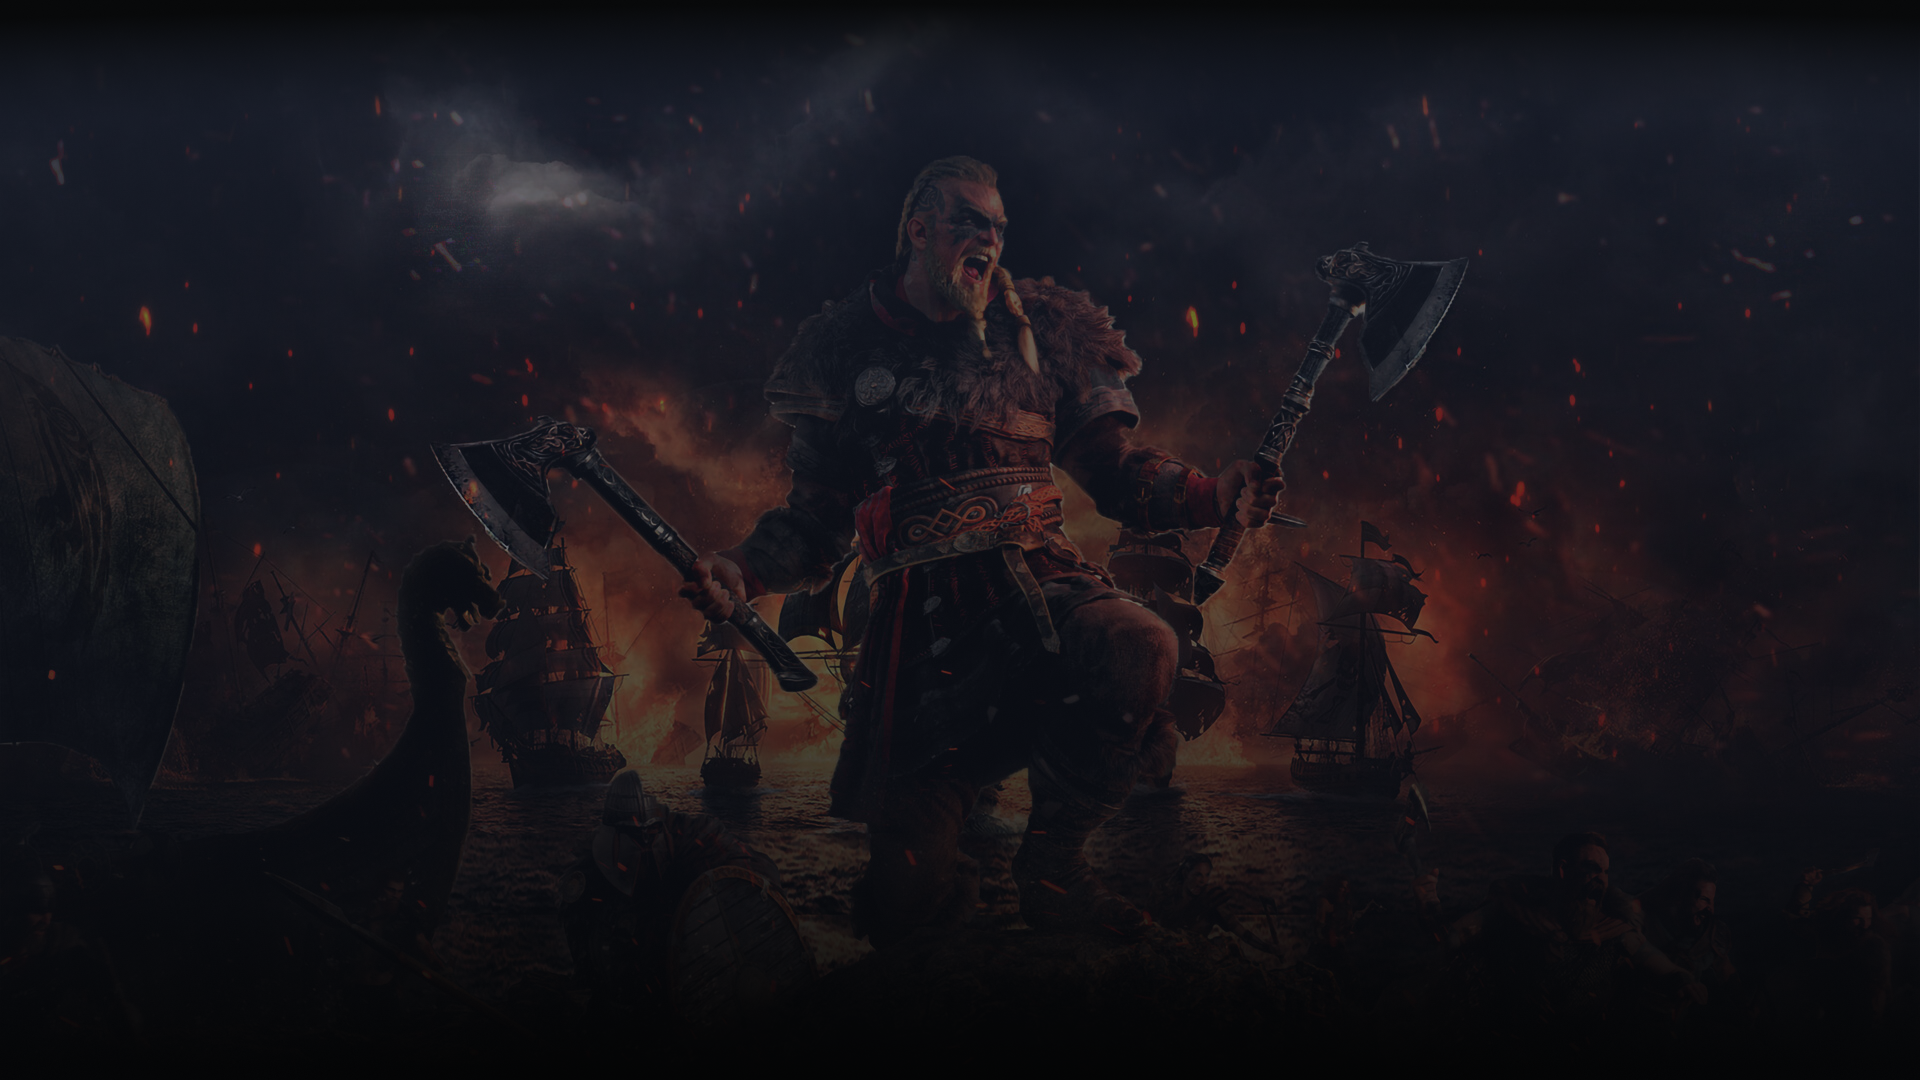
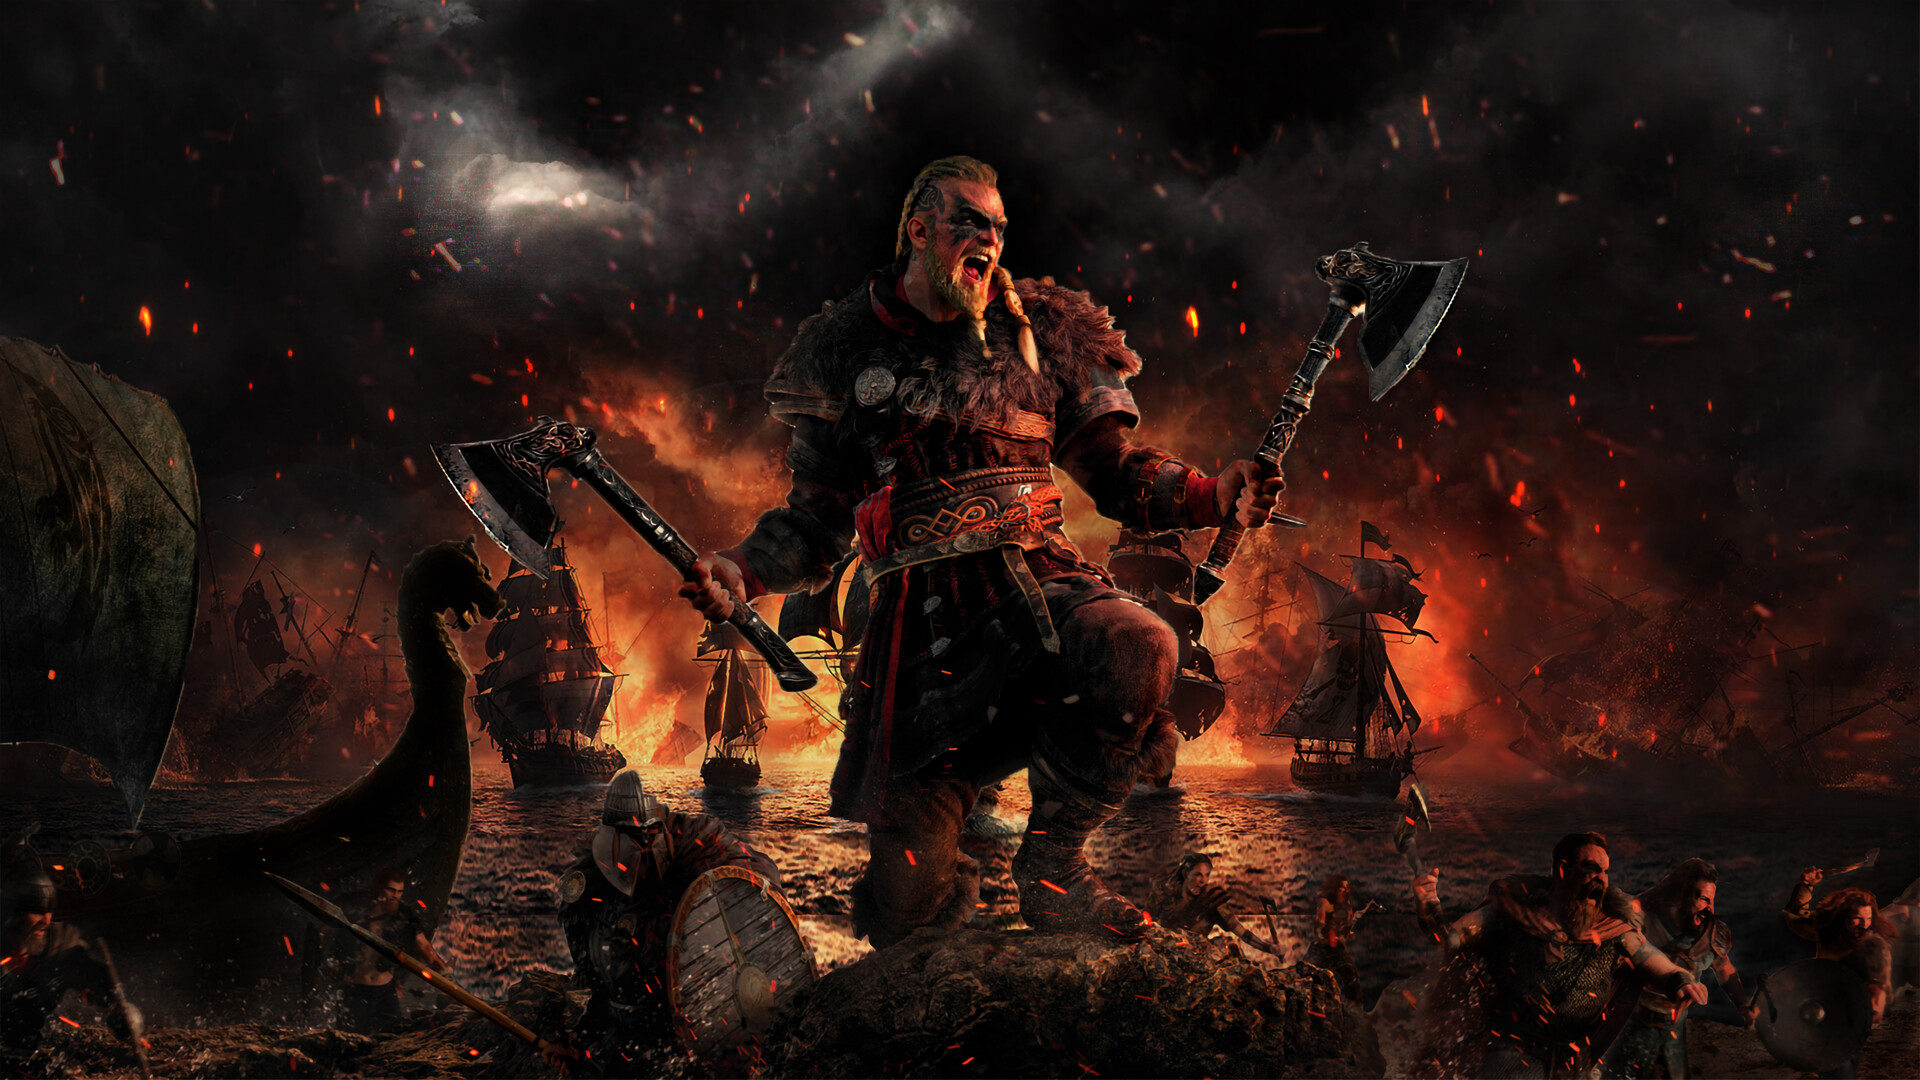
feat: game features

diff --git a/src/app/features/game-features/pages/game-features/game-features.scss b/src/app/features/game-features/pages/game-features/game-features.scss
@@ -1,0 +1,96 @@
+.container {
+  background-image: url("i../../../../../../../../public/images/game-features-background.png");
+  background-repeat: no-repeat;
+  background-size: cover;
+  padding: 20px 120px;
+  width: 100%;
+  max-width: 100vw;
+  height: 100%;
+  min-height: 100vh;
+  box-shadow: inset 0 0 2000px 300px #000;
+  display: flex;
+  flex-direction: row-reverse;
+  align-items: center;
+  color: white;
+}
+
+.line {
+  width: 1px;
+  background-color: white;
+}
+
+.text-section {
+  display: flex;
+  flex-direction: column;
+  gap: 75px;
+  font-family: "Bebas neue", sans-serif;
+  width: 100%;
+  max-width: 548px;
+  height: 100%;
+  max-height: 607px;
+}
+
+.heading {
+  display: flex;
+  flex-direction: column;
+  gap: 20px;
+}
+
+.heading h3 {
+  font-weight: bold;
+  letter-spacing: 2px;
+  font-size: 30px;
+}
+
+.heading h1 {
+  font-weight: bold;
+  letter-spacing: 3px;
+  font-size: 100px;
+}
+
+.details {
+  display: flex;
+  gap: 20px;
+}
+
+.details-text {
+  display: flex;
+  flex-direction: column;
+  gap: 80px;
+}
+
+.text {
+  display: flex;
+  flex-direction: column;
+  gap: 11px;
+}
+
+.text-content {
+  display: flex;
+  align-items: center;
+}
+
+.text:nth-child(1) .text-content img {
+  position: relative;
+  right: 27px;
+  background-color: #fff;
+  border-radius: 100%;
+}
+
+.text-content img {
+  position: relative;
+  right: 27px;
+  background: #000;
+}
+
+.details-text h2 {
+  color: #3db3a2;
+  font-size: 50px;
+  letter-spacing: 2px;
+}
+
+.details-text p {
+  font-family: "Open sans", sans-serif;
+  font-size: 18px;
+  line-height: 26px;
+}

diff --git a/src/app/features/game-features/pages/game-features/game-features.html b/src/app/features/game-features/pages/game-features/game-features.html
@@ -1,0 +1,35 @@
+<section class="container">
+  <div class="text-section">
+    <div class="heading">
+      <h3>WHY SO SPECIAL?</h3>
+      <h1>FEATURES</h1>
+    </div>
+    <div class="details">
+      <div class="line"></div>
+      <div class="details-text">
+        <div class="text">
+          <div class="text-content">
+            <img ngSrc="svg/ball.svg" [width]="14" [height]="14" />
+            <h2>SURVIVE AT ALL COST</h2>
+          </div>
+          <p>
+            You have 30 minutes to find a relic, signal for extraction, and grab
+            one of three spots on the rescue chopper.
+          </p>
+        </div>
+        <div class="text">
+          <div class="text-content">
+            <img ngSrc="svg/ball.svg" [width]="14" [height]="14" />
+            <h2>CREATE ALLIES AND ENEMIES</h2>
+          </div>
+        </div>
+        <div class="text">
+          <div class="text-content">
+            <img ngSrc="svg/ball.svg" [width]="14" [height]="14" />
+            <h2>IMPRESS THE AUDIENCE</h2>
+          </div>
+        </div>
+      </div>
+    </div>
+  </div>
+</section>

diff --git a/src/app/features/game-features/pages/game-features/game-features.spec.ts b/src/app/features/game-features/pages/game-features/game-features.spec.ts
@@ -1,0 +1,23 @@
+import { ComponentFixture, TestBed } from '@angular/core/testing';
+
+import { GameFeatures } from './game-features';
+
+describe('GameFeatures', () => {
+  let component: GameFeatures;
+  let fixture: ComponentFixture<GameFeatures>;
+
+  beforeEach(async () => {
+    await TestBed.configureTestingModule({
+      imports: [GameFeatures]
+    })
+    .compileComponents();
+
+    fixture = TestBed.createComponent(GameFeatures);
+    component = fixture.componentInstance;
+    fixture.detectChanges();
+  });
+
+  it('should create', () => {
+    expect(component).toBeTruthy();
+  });
+});

diff --git a/src/app/app.ts b/src/app/app.ts
@@ -1,12 +1,12 @@
 import { Component } from '@angular/core';
 import { RouterOutlet } from '@angular/router';
-import { Button } from './features/hero/components/button/button';
 import { Hero } from './features/hero/pages/hero/hero';
 import { About } from './features/about/pages/about/about';
+import { GameFeatures } from "./features/game-features/pages/game-features/game-features";
 
 @Component({
   selector: 'app-root',
-  imports: [RouterOutlet, Hero, About],
+  imports: [RouterOutlet, Hero, About, GameFeatures],
   templateUrl: './app.html',
   styleUrl: './app.scss',
 })

diff --git a/src/app/features/game-features/pages/game-features/game-features.ts b/src/app/features/game-features/pages/game-features/game-features.ts
@@ -1,0 +1,10 @@
+import { NgOptimizedImage } from '@angular/common';
+import { Component } from '@angular/core';
+
+@Component({
+  selector: 'app-game-features',
+  imports: [NgOptimizedImage],
+  templateUrl: './game-features.html',
+  styleUrl: './game-features.scss',
+})
+export class GameFeatures {}

diff --git a/src/app/features/about/pages/about/about.scss b/src/app/features/about/pages/about/about.scss
@@ -9,6 +9,7 @@
   background-size: cover;
   color: white;
   place-items: center;
+  box-shadow: inset 0 0 2000px 300px #000;
 }
 
 .about-content {

diff --git a/src/app/features/hero/pages/hero/hero.scss b/src/app/features/hero/pages/hero/hero.scss
@@ -7,6 +7,7 @@
   max-width: 100vw;
   height: 100%;
   min-height: 100vh;
+  box-shadow: inset 0 0 1000px 200px #000;
 }
 
 .hero-container {

diff --git a/src/app/app.html b/src/app/app.html
@@ -1,3 +1,4 @@
 <app-hero />
 <app-about />
+<app-game-features />
 <router-outlet />
